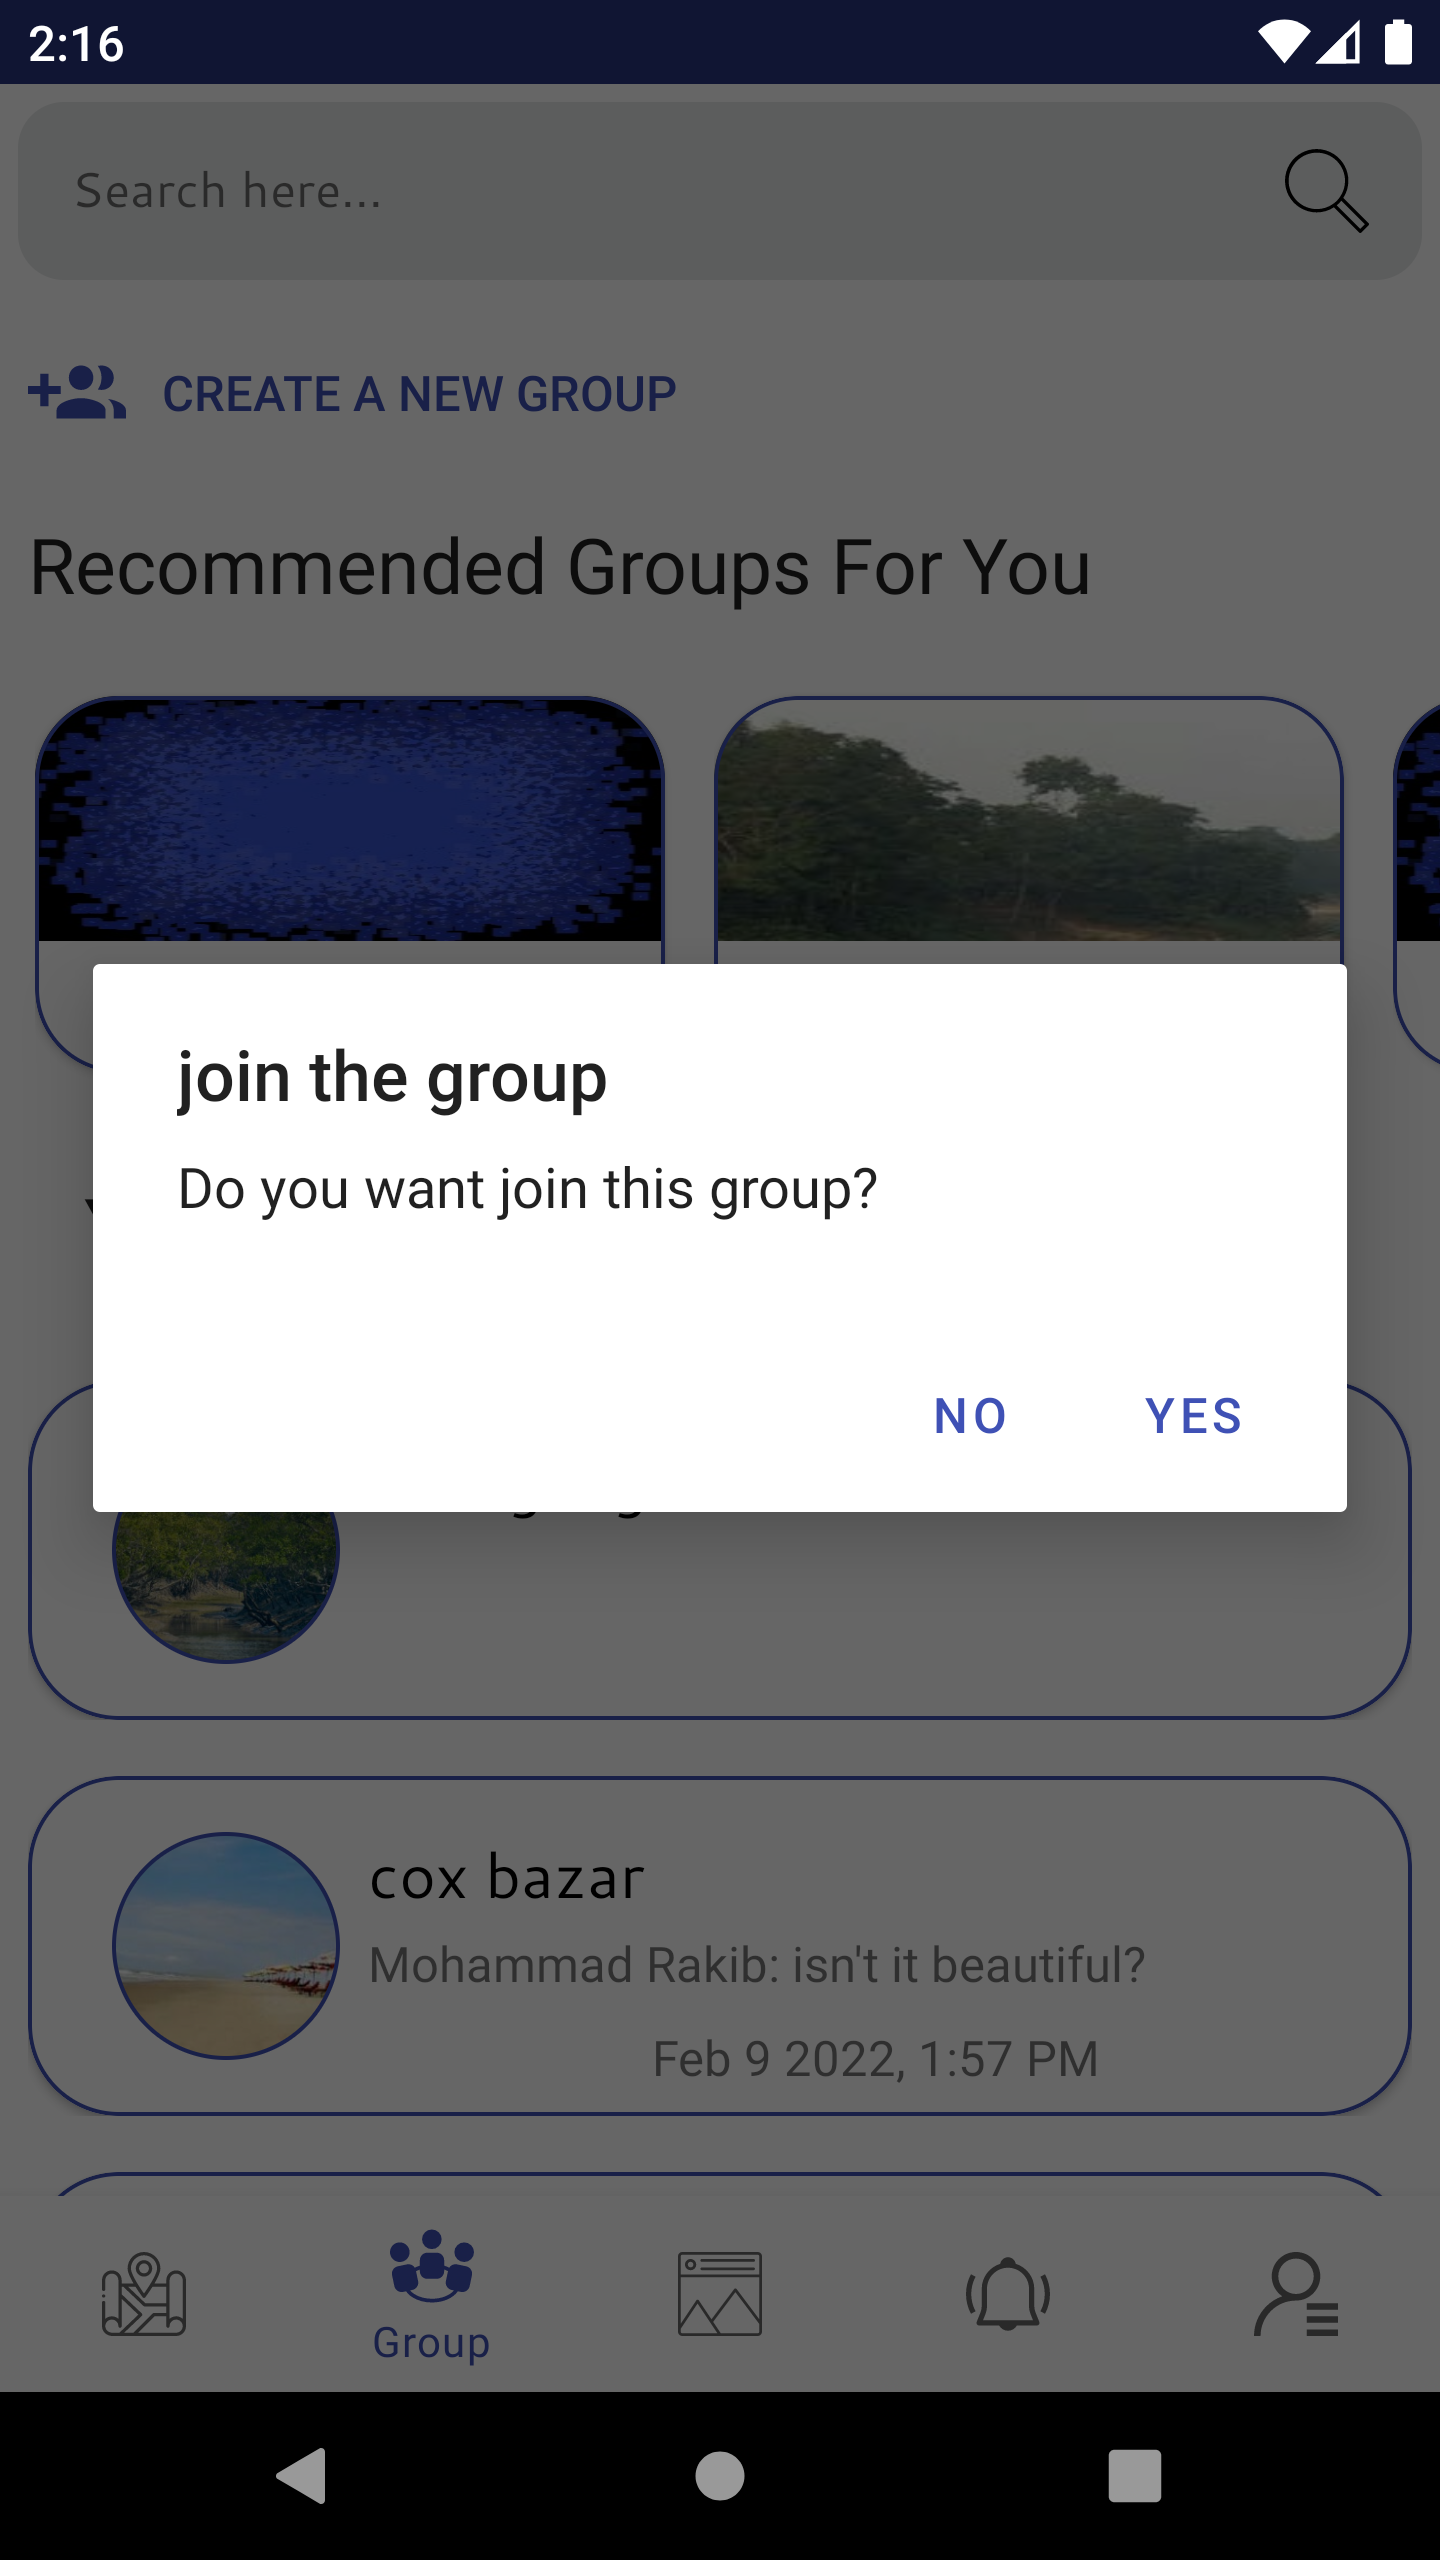
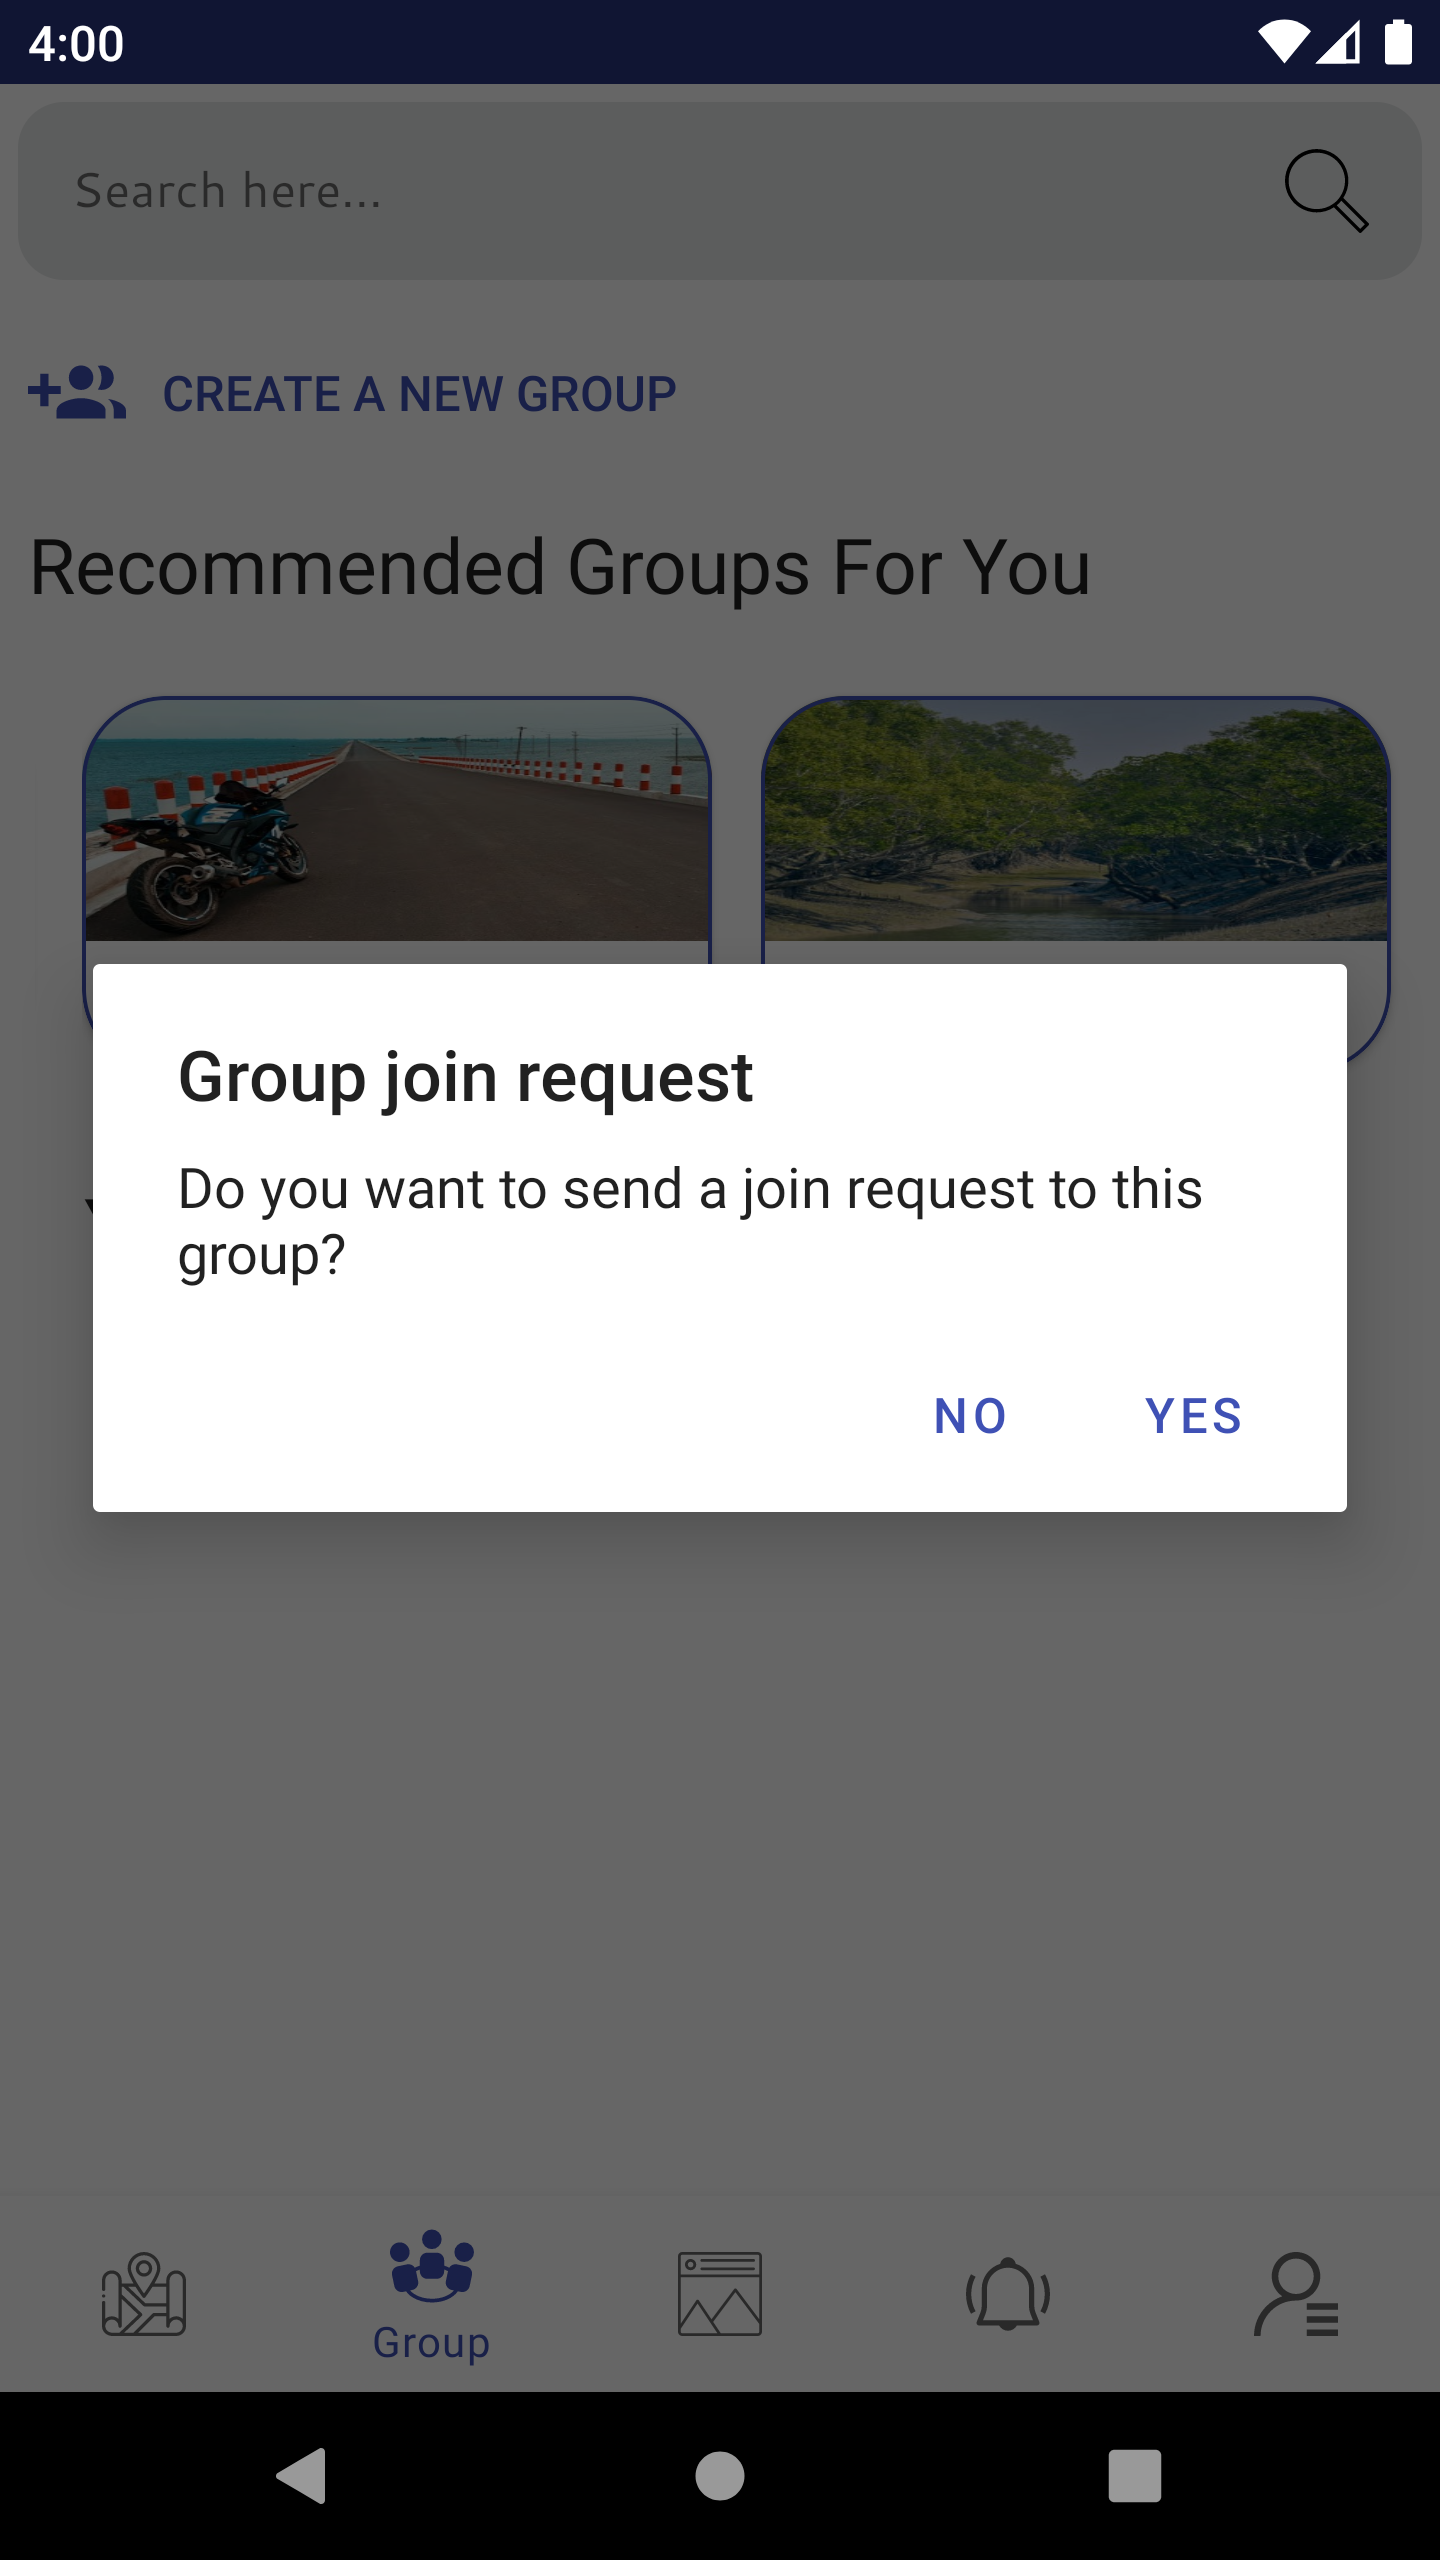
app ss updated

diff --git a/app/src/main/java/com/example/tourroom/ui/search/search_activity.java b/app/src/main/java/com/example/tourroom/ui/search/search_activity.java
@@ -122,17 +122,11 @@ public class search_activity extends AppCompatActivity implements RecyclerviewAd
     }
 
     public void loadData() {
-      /* loadingBar.setTitle("Search");
-         loadingBar.setMessage("Please wait,searching your query");
-         loadingBar.setCanceledOnTouchOutside(false);
-         loadingBar.show();*/
         String editTextValue=searchEditText.getText().toString();
         String value=spinner.getSelectedItem().toString();
-        //Toast.makeText(this, value, Toast.LENGTH_SHORT).show();
         if(value.equals("Place"))
         {
             recyclerView.setAdapter(recyclerviewAdapterForSearch);
-            //Toast.makeText(this, editTextValue, Toast.LENGTH_SHORT).show();
             DatabaseReference mDatabaseRef = FirebaseDatabase.getInstance().getReference("Places");
 
             Query query=mDatabaseRef.orderByChild("placeName").startAt(editTextValue).endAt(editTextValue+"\uf8ff");
@@ -159,7 +153,6 @@ public class search_activity extends AppCompatActivity implements RecyclerviewAd
        else if(value.equals("Group"))
         {
             recyclerView.setAdapter(recyclerviewAdapterForSearchGroup);
-            //Toast.makeText(this, editTextValue, Toast.LENGTH_SHORT).show();
             DatabaseReference mDatabaseRef = FirebaseDatabase.getInstance().getReference("GROUP");
 
             Query query=mDatabaseRef.orderByChild("groupName").startAt(editTextValue).endAt(editTextValue+"\uf8ff");
@@ -173,7 +166,6 @@ public class search_activity extends AppCompatActivity implements RecyclerviewAd
                         final group_data groupDatas = data.getValue(group_data.class);
                         groupDataList.add(groupDatas);
                         recyclerviewAdapterForSearchGroup.notifyDataSetChanged();
-                        //loadingBar.dismiss();
                     }
 
                 }
@@ -181,7 +173,6 @@ public class search_activity extends AppCompatActivity implements RecyclerviewAd
                 @Override
                 public void onCancelled(DatabaseError databaseError) {
                     Toast.makeText(search_activity.this, "Error occured", Toast.LENGTH_SHORT).show();
-                    //loadingBar.dismiss();
                 }
             });
         }
@@ -189,7 +180,6 @@ public class search_activity extends AppCompatActivity implements RecyclerviewAd
         else  if(value.equals("User"))
         {
             recyclerView.setAdapter(recyclerviewAdapterForSearchUser);
-            //Toast.makeText(this, editTextValue, Toast.LENGTH_SHORT).show();
             DatabaseReference mDatabaseRef = FirebaseDatabase.getInstance().getReference("Users");
 
             Query query=mDatabaseRef.orderByChild("name").startAt(editTextValue).endAt(editTextValue+"\uf8ff");
@@ -203,7 +193,6 @@ public class search_activity extends AppCompatActivity implements RecyclerviewAd
                         final User_Data userDatas = data.getValue(User_Data.class);
                         userDataList.add(userDatas);
                         recyclerviewAdapterForSearchUser.notifyDataSetChanged();
-                        //loadingBar.dismiss();
                     }
 
                 }
@@ -211,13 +200,11 @@ public class search_activity extends AppCompatActivity implements RecyclerviewAd
                 @Override
                 public void onCancelled(DatabaseError databaseError) {
                     Toast.makeText(search_activity.this, "Error occured", Toast.LENGTH_SHORT).show();
-                    //loadingBar.dismiss();
                 }
             });
         }
          else
          {
-             //loadingBar.dismiss();
              Toast.makeText(this, "Find nothing", Toast.LENGTH_SHORT).show();
 
          }
@@ -225,7 +212,6 @@ public class search_activity extends AppCompatActivity implements RecyclerviewAd
 
     @Override
     public void on_Item_click(int position, place_data placeData) {
-        //finish();
         Intent intent=new Intent(this, PlaceInfoActivity.class);
         intent.putExtra("id",placeData.getPlaceId());
         startActivity(intent);
@@ -234,8 +220,8 @@ public class search_activity extends AppCompatActivity implements RecyclerviewAd
     @Override
     public void on_Item_click_group(int position, final group_data groupData) {
         AlertDialog.Builder alert = new AlertDialog.Builder(search_activity.this);
-        alert.setTitle("join the group");
-        alert.setMessage("Do you want join this group?");
+        alert.setTitle("Group join request");
+        alert.setMessage("Do you want to send a join request to this group?");
         alert.setPositiveButton("yes", new DialogInterface.OnClickListener() {
             @Override
             public void onClick(DialogInterface dialog, int which) {

diff --git a/app/src/main/java/com/example/tourroom/ui/group/group_fragment.java b/app/src/main/java/com/example/tourroom/ui/group/group_fragment.java
@@ -153,12 +153,11 @@ public class group_fragment extends Fragment  implements  VRecyclerViewClickInte
        // navController.navigate(R.id.group_info_fragment);
 
         AlertDialog.Builder alert = new AlertDialog.Builder(requireActivity());
-        alert.setTitle("join the group");
-        alert.setMessage("Do you want join this group?");
+        alert.setTitle("Group join request");
+        alert.setMessage("Do you want to send a join request to this group?");
         alert.setPositiveButton("yes", new DialogInterface.OnClickListener() {
             @Override
             public void onClick(DialogInterface dialog, int which) {
-                //join_group(group_data);
                 sendJoinRequest(group_data);
             }
         });
@@ -204,49 +203,6 @@ public class group_fragment extends Fragment  implements  VRecyclerViewClickInte
             }
         });
     }
-
-   /* private void join_group(final group_data group_data) {
-
-        final String groupId = group_data.getGroupId();
-        Map<String, Object> update = new HashMap<>();
-
-        update.put("GROUP/"+groupId+"/members/"+currentUserID,true);
-        update.put("Users/"+currentUserID+"/joinedGroups/"+groupId+"/msgCountUser",group_data.getMsgCount());
-
-        getINSTANCE().getRootRef().updateChildren(update).addOnSuccessListener(new OnSuccessListener<Void>() {
-            @Override
-            public void onSuccess(Void aVoid) {
-
-                getINSTANCE().getRootRef().child("GROUP").child(groupId).addListenerForSingleValueEvent(new ValueEventListener() {
-                    @Override
-                    public void onDataChange(@NonNull DataSnapshot snapshot) {
-
-                        group_data group_data = snapshot.getValue(group_data.class);
-
-                        assert group_data != null;
-                        yourGroupData yourGroupData = new yourGroupData(groupId,group_data.getGroupName(),group_data.getGroupImage());
-                        getYourGroupListInstance().getYourGroupList().add(0,yourGroupData);
-                        group_vertical_parent_recycle_view_adapterVariable.notifyDataSetChanged();
-                    }
-
-                    @Override
-                    public void onCancelled(@NonNull DatabaseError error) {
-
-                    }
-                });
-
-                Toast.makeText(requireActivity(), "joined the group", Toast.LENGTH_SHORT).show();
-            }
-
-        }).addOnFailureListener(new OnFailureListener() {
-            @Override
-            public void onFailure(@NonNull Exception e) {
-                Toast.makeText(requireActivity(), "Error"+e.toString(), Toast.LENGTH_LONG).show();
-            }
-
-        });
-
-    }*/
 
     @Override
     public void onStop() {
